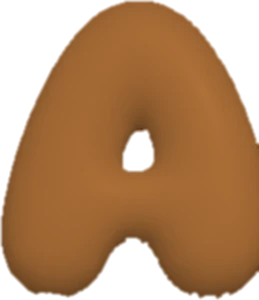
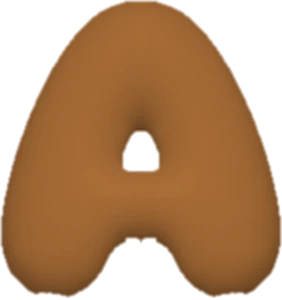
Rebuild A from its uncut half so it is not clipped on the side
Claude-Session: https://claude.ai/code/session_01Vzy17KA49vcEpwfNDmnMwd

diff --git a/design.html b/design.html
@@ -510,7 +510,7 @@ function rgb(h){ const n=parseInt(h.slice(1),16); return [(n>>16)&255,(n>>8)&255
 const SHAPE_L={boat:.773,bow:.722,butterfly:.685,car:.422,castle:.791,cloud:.724,crown:.755,dino:.679,dolphin:.642,elephant:.645,flower:.818,giraffe:.75,heart:.689,leaf:.69,lion:.716,octopus:.679,palm:.664,rocket:.494,snake:.687};
 const tints={};
 /* صور الحروف الحقيقية (assets/letters/X.webp): العرض ÷ الارتفاع لكل حرف. الحرف اللي ما له صورة يترسم بالخط */
-const LETTER_IMG={A:.863,B:.74,C:.793,D:.783,E:.727,F:.753,G:.997,H:.87,I:.53,J:.79,K:.863,L:.783,M:.983,N:.84,O:1.02,P:.81,Q:.937,R:.82,S:.807,T:.957,U:1,V:1.037,W:1.273,X:1.187,Y:1.11,Z:.957};
+const LETTER_IMG={A:.94,B:.74,C:.793,D:.783,E:.727,F:.753,G:.997,H:.87,I:.53,J:.79,K:.863,L:.783,M:.983,N:.84,O:1.02,P:.81,Q:.937,R:.82,S:.807,T:.957,U:1,V:1.037,W:1.273,X:1.187,Y:1.11,Z:.957};
 const LETTER_L=.863; /* متوسط سطوع الحروف البيضاء في الصور */
 function tintL(hex){
   const fid=`tl-${hex.slice(1)}`;
